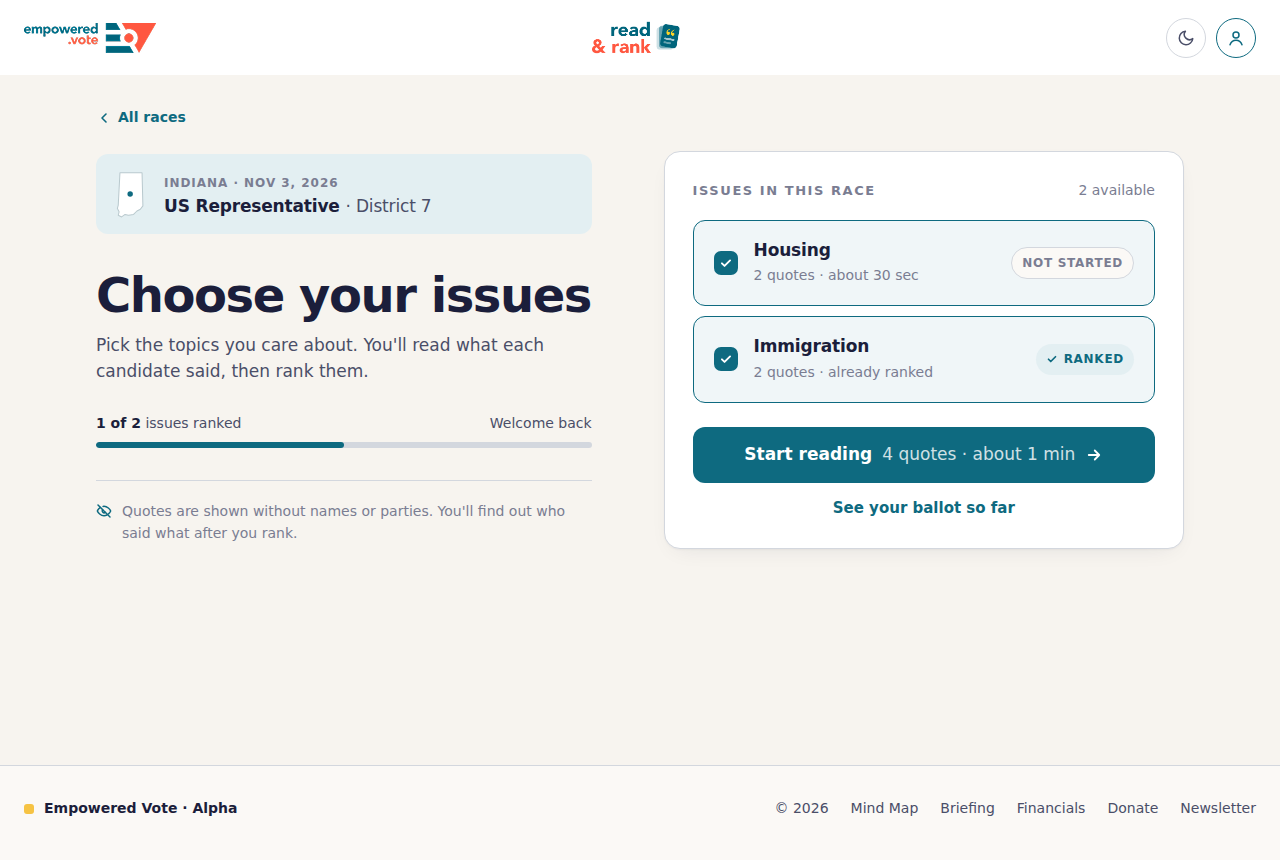
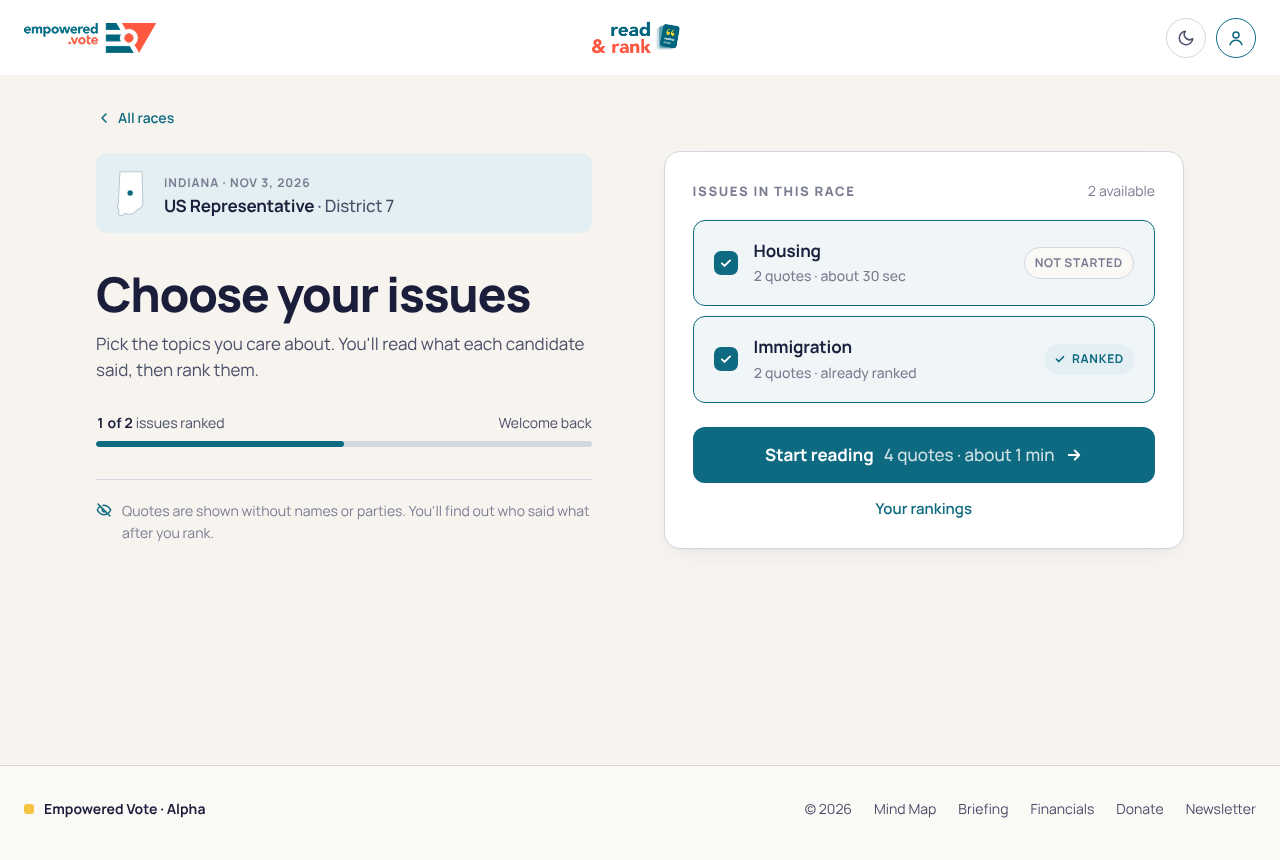
docs: rename "See your ballot so far" to "Your rankings"
Claude-Session: https://claude.ai/code/session_01DwfCu4GsxXBrSLCryEySUF

diff --git a/docs/design/readrank-ux-redesign/prototype/index.html b/docs/design/readrank-ux-redesign/prototype/index.html
@@ -2602,7 +2602,7 @@
           <span class="dim" id="start-meta">4 quotes · about 1 min</span>
           <svg width="18" height="18" viewBox="0 0 24 24" fill="none" stroke="currentColor" stroke-width="2.4" stroke-linecap="round" stroke-linejoin="round" aria-hidden="true"><path d="M5 12h14M13 6l6 6-6 6"/></svg>
         </button>
-        <a class="ballot" href="#ballot">See your ballot so far</a>
+        <a class="ballot" href="#ballot">Your rankings</a>
       </div>
     </form>
 

diff --git a/docs/design/readrank-ux-redesign/prototype/issues.html b/docs/design/readrank-ux-redesign/prototype/issues.html
@@ -356,7 +356,7 @@
           <span class="dim" id="start-meta">4 quotes · about 1 min</span>
           <svg width="18" height="18" viewBox="0 0 24 24" fill="none" stroke="currentColor" stroke-width="2.4" stroke-linecap="round" stroke-linejoin="round" aria-hidden="true"><path d="M5 12h14M13 6l6 6-6 6"/></svg>
         </button>
-        <a class="ballot" href="#ballot">See your ballot so far</a>
+        <a class="ballot" href="#ballot">Your rankings</a>
       </div>
     </form>
 
